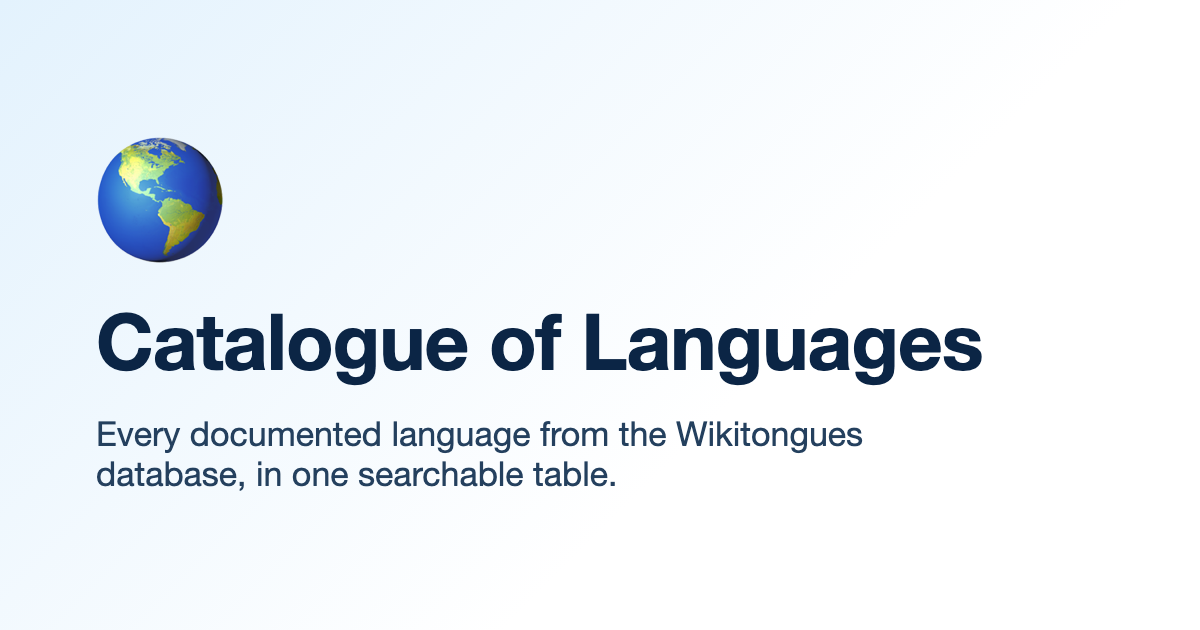
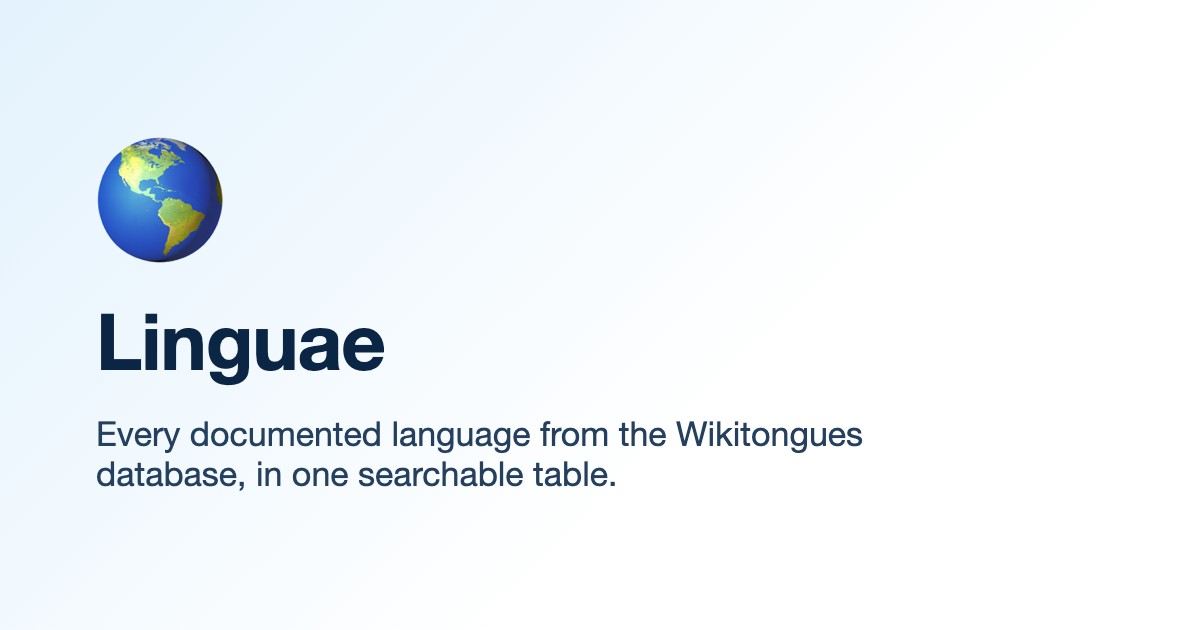
feat: rebrand to Linguae and publish at linguae.martonpaulo.com
Serve the static export from the root of its own subdomain instead of the
/catalogue-of-languages sub-path: empty base path, canonical origin
https://linguae.martonpaulo.com, public/CNAME and public/robots.txt.

Rename the product to Linguae everywhere it is spelled: site name, title,
h1, package name and repository, storage key prefix (@linguae:), UTM source,
JSON-LD, regenerated social card, README, AGENTS.md and docs/product.md.
AGENTS.md now records the Playwright suite instead of claiming no test runner.

Changed region(s): [[0.0617, 0.4825, 0.8325, 0.6333]]

diff --git a/tests/liveDeployment.spec.ts b/tests/liveDeployment.spec.ts
@@ -3,7 +3,7 @@ import { expect, test } from "@playwright/test";
 /**
  * Post-deployment verification against a published site. Skipped unless a URL is given:
  *
- *   LIVE_URL=https://martonpaulo.com/catalogue-of-languages/ npx playwright test liveDeployment
+ *   LIVE_URL=https://linguae.martonpaulo.com/ npx playwright test liveDeployment
  *
  * It asserts only what must hold for any real snapshot, so it does not depend on the
  * fixture data the rest of the suite uses.
@@ -28,7 +28,7 @@ test.describe("published deployment", () => {
     await page.goto("");
 
     await expect(
-      page.getByRole("heading", { name: "🌎 Catalogue of Languages" })
+      page.getByRole("heading", { name: "🌎 Linguae" })
     ).toBeVisible();
     await expect(page.getByRole("row").nth(50)).toBeVisible();
     expect(runtimeCalls).toEqual([]);
@@ -46,7 +46,7 @@ test.describe("published deployment", () => {
     await link.click();
 
     await expect(page.getByRole("heading", { name, exact: true })).toBeVisible();
-    await expect(page).toHaveTitle(new RegExp("Catalogue of Languages"));
+    await expect(page).toHaveTitle(new RegExp("Linguae"));
   });
 
   test("answers an unpublished code with the exported not-found page", async ({

diff --git a/playwright.config.ts b/playwright.config.ts
@@ -1,7 +1,7 @@
 import { defineConfig, devices } from "@playwright/test";
 
 const PORT = Number(process.env.E2E_PORT ?? 3100);
-export const BASE_PATH = "/catalogue-of-languages";
+export const BASE_PATH = "";
 const BASE_URL = `http://localhost:${PORT}${BASE_PATH}/`;
 
 /**
@@ -9,7 +9,7 @@ const BASE_URL = `http://localhost:${PORT}${BASE_PATH}/`;
  * below maps to one of those engine families.
  *
  * The suite runs against the real static export served the way GitHub Pages serves it,
- * under the published base path. The development server is deliberately not used: its
+ * from the root of the origin. The development server is deliberately not used: its
  * unknown-route behavior differs from the exported artifact, so it cannot prove the
  * deployed 404 contract. The export is built from the synthetic fixture snapshot, so runs
  * need no credentials and never reach Airtable.
@@ -42,7 +42,7 @@ export default defineConfig({
     reuseExistingServer: false,
     timeout: 300_000,
     env: {
-      NEXT_PUBLIC_STORAGE_PREFIX: "catalogue-of-languages",
+      NEXT_PUBLIC_STORAGE_PREFIX: "linguae",
       NEXT_PUBLIC_STORAGE_VERSION: "test",
     },
   },

diff --git a/src/shared/config/deployment.ts b/src/shared/config/deployment.ts
@@ -1,8 +1,8 @@
 import { SNAPSHOT_DIRECTORY } from "@/shared/types/snapshot.type";
 
 /**
- * Prefix the deployment is served from. Empty during development and tests, and set to the
- * published sub-path by the production build. Declared once so the framework configuration
+ * Prefix the deployment is served from. Empty: the site is served from the root of its own
+ * subdomain. Declared once so the framework configuration
  * and the snapshot asset URLs cannot disagree.
  */
 export const BASE_PATH = process.env.NEXT_PUBLIC_BASE_PATH ?? "";
@@ -17,9 +17,9 @@ export function snapshotAssetUrl(assetPath: string): string {
  * sitemap URLs cannot disagree with each other or with the deployment.
  */
 export const SITE_ORIGIN =
-  process.env.NEXT_PUBLIC_SITE_ORIGIN ?? "https://martonpaulo.com";
+  process.env.NEXT_PUBLIC_SITE_ORIGIN ?? "https://linguae.martonpaulo.com";
 
-export const SITE_NAME = "Catalogue of Languages";
+export const SITE_NAME = "Linguae";
 
 export const SITE_DESCRIPTION =
   "Interactive table featuring all documented languages from the Wikitongues database, " +

diff --git a/tests/metadata.spec.ts b/tests/metadata.spec.ts
@@ -3,7 +3,7 @@ import { expect, test } from "@playwright/test";
 import { BASE_PATH } from "../playwright.config";
 import { NAMED_LANGUAGE } from "./support/syntheticCatalogue";
 
-const ORIGIN = "https://martonpaulo.com";
+const ORIGIN = "https://linguae.martonpaulo.com";
 const SITE = `${ORIGIN}${BASE_PATH}/`;
 const SOCIAL_IMAGE = `${ORIGIN}${BASE_PATH}/opengraph-image.png`;
 
@@ -37,7 +37,7 @@ test.describe("published metadata", () => {
     expect(await meta(page, 'meta[property="og:type"]')).toBe("website");
     expect(await meta(page, 'meta[property="og:url"]')).toBe(SITE);
     expect(await meta(page, 'meta[property="og:site_name"]')).toBe(
-      "Catalogue of Languages"
+      "Linguae"
     );
     expect(await meta(page, 'meta[property="og:image"]')).toBe(SOCIAL_IMAGE);
     expect(await meta(page, 'meta[property="og:image:width"]')).toBe("1200");

diff --git a/next.config.ts b/next.config.ts
@@ -1,8 +1,8 @@
 import type { NextConfig } from "next";
 
 /**
- * The catalogue is published as a static export under a sub-path. `NEXT_PUBLIC_BASE_PATH`
- * is the single declaration of that prefix: the framework applies it to routes and assets,
+ * The catalogue is published as a static export from the root of its subdomain. `NEXT_PUBLIC_BASE_PATH`
+ * is the single declaration of any prefix: the framework applies it to routes and assets,
  * and `src/shared/config/deployment.ts` reads the same value for snapshot asset URLs.
  */
 const basePath = process.env.NEXT_PUBLIC_BASE_PATH ?? "";

diff --git a/tests/filterStorage.spec.ts b/tests/filterStorage.spec.ts
@@ -2,8 +2,8 @@ import { expect, test } from "@playwright/test";
 
 import { applyNameFilter } from "./support/syntheticCatalogue";
 
-const FILTER_KEY = "@catalogue-of-languages:language-filters:test";
-const LEGACY_QUERY_CACHE_KEY = "@catalogue-of-languages:react-query-cache:test";
+const FILTER_KEY = "@linguae:language-filters:test";
+const LEGACY_QUERY_CACHE_KEY = "@linguae:react-query-cache:test";
 const UNRELATED_KEY = "unrelated-origin-key";
 
 test("writes only the filter preference to application storage", async ({

diff --git a/src/shared/components/ProjectAttribution.tsx b/src/shared/components/ProjectAttribution.tsx
@@ -7,7 +7,7 @@ export function ProjectAttribution() {
         This data is made available by Wikitongues. For additional details about
         this project, visit{" "}
         <a
-          href="https://www.martonpaulo.com/?utm_source=catalogue-of-languages"
+          href="https://www.martonpaulo.com/?utm_source=linguae"
           target="_blank"
           rel="noreferrer"
           style={{ color: "inherit" }}

diff --git a/tests/catalogue.smoke.spec.ts b/tests/catalogue.smoke.spec.ts
@@ -13,7 +13,7 @@ test.describe("catalogue smoke journey", () => {
     await page.goto("");
 
     await expect(
-      page.getByRole("heading", { name: "🌎 Catalogue of Languages" })
+      page.getByRole("heading", { name: "🌎 Linguae" })
     ).toBeVisible();
     await expect(page.getByRole("row")).toHaveCount(REVEAL_STEP + 1); // + header
   });

diff --git a/tests/languageStatusFilter.spec.ts b/tests/languageStatusFilter.spec.ts
@@ -100,7 +100,7 @@ test.describe("language status filtering", () => {
   }) => {
     await page.addInitScript(() => {
       window.localStorage.setItem(
-        "@catalogue-of-languages:language-filters:test",
+        "@linguae:language-filters:test",
         JSON.stringify({
           code: "",
           name: "",

diff --git a/tests/filterPersistence.spec.ts b/tests/filterPersistence.spec.ts
@@ -6,7 +6,7 @@ import {
   waitForCatalogue,
 } from "./support/syntheticCatalogue";
 
-const FILTER_KEY = "@catalogue-of-languages:language-filters:test";
+const FILTER_KEY = "@linguae:language-filters:test";
 const UNRELATED_KEY = "unrelated-origin-key";
 const SAVE_WARNING = "cannot be remembered";
 

diff --git a/src/app/(homepage)/page.tsx b/src/app/(homepage)/page.tsx
@@ -38,7 +38,7 @@ export default function Home() {
 
   return (
     <ContentContainer>
-      <Typography variant="h1">🌎 Catalogue of Languages</Typography>
+      <Typography variant="h1">🌎 Linguae</Typography>
 
       <Stack spacing={1}>
         <LanguageFilters

diff --git a/tests/languageDetail.spec.ts b/tests/languageDetail.spec.ts
@@ -71,7 +71,7 @@ test.describe("language detail outcomes", () => {
     await page.goto(`${NAMED_LANGUAGE.code}/`);
 
     await expect(page).toHaveTitle(
-      `${NAMED_LANGUAGE.name} | Catalogue of Languages`
+      `${NAMED_LANGUAGE.name} | Linguae`
     );
   });
 });
